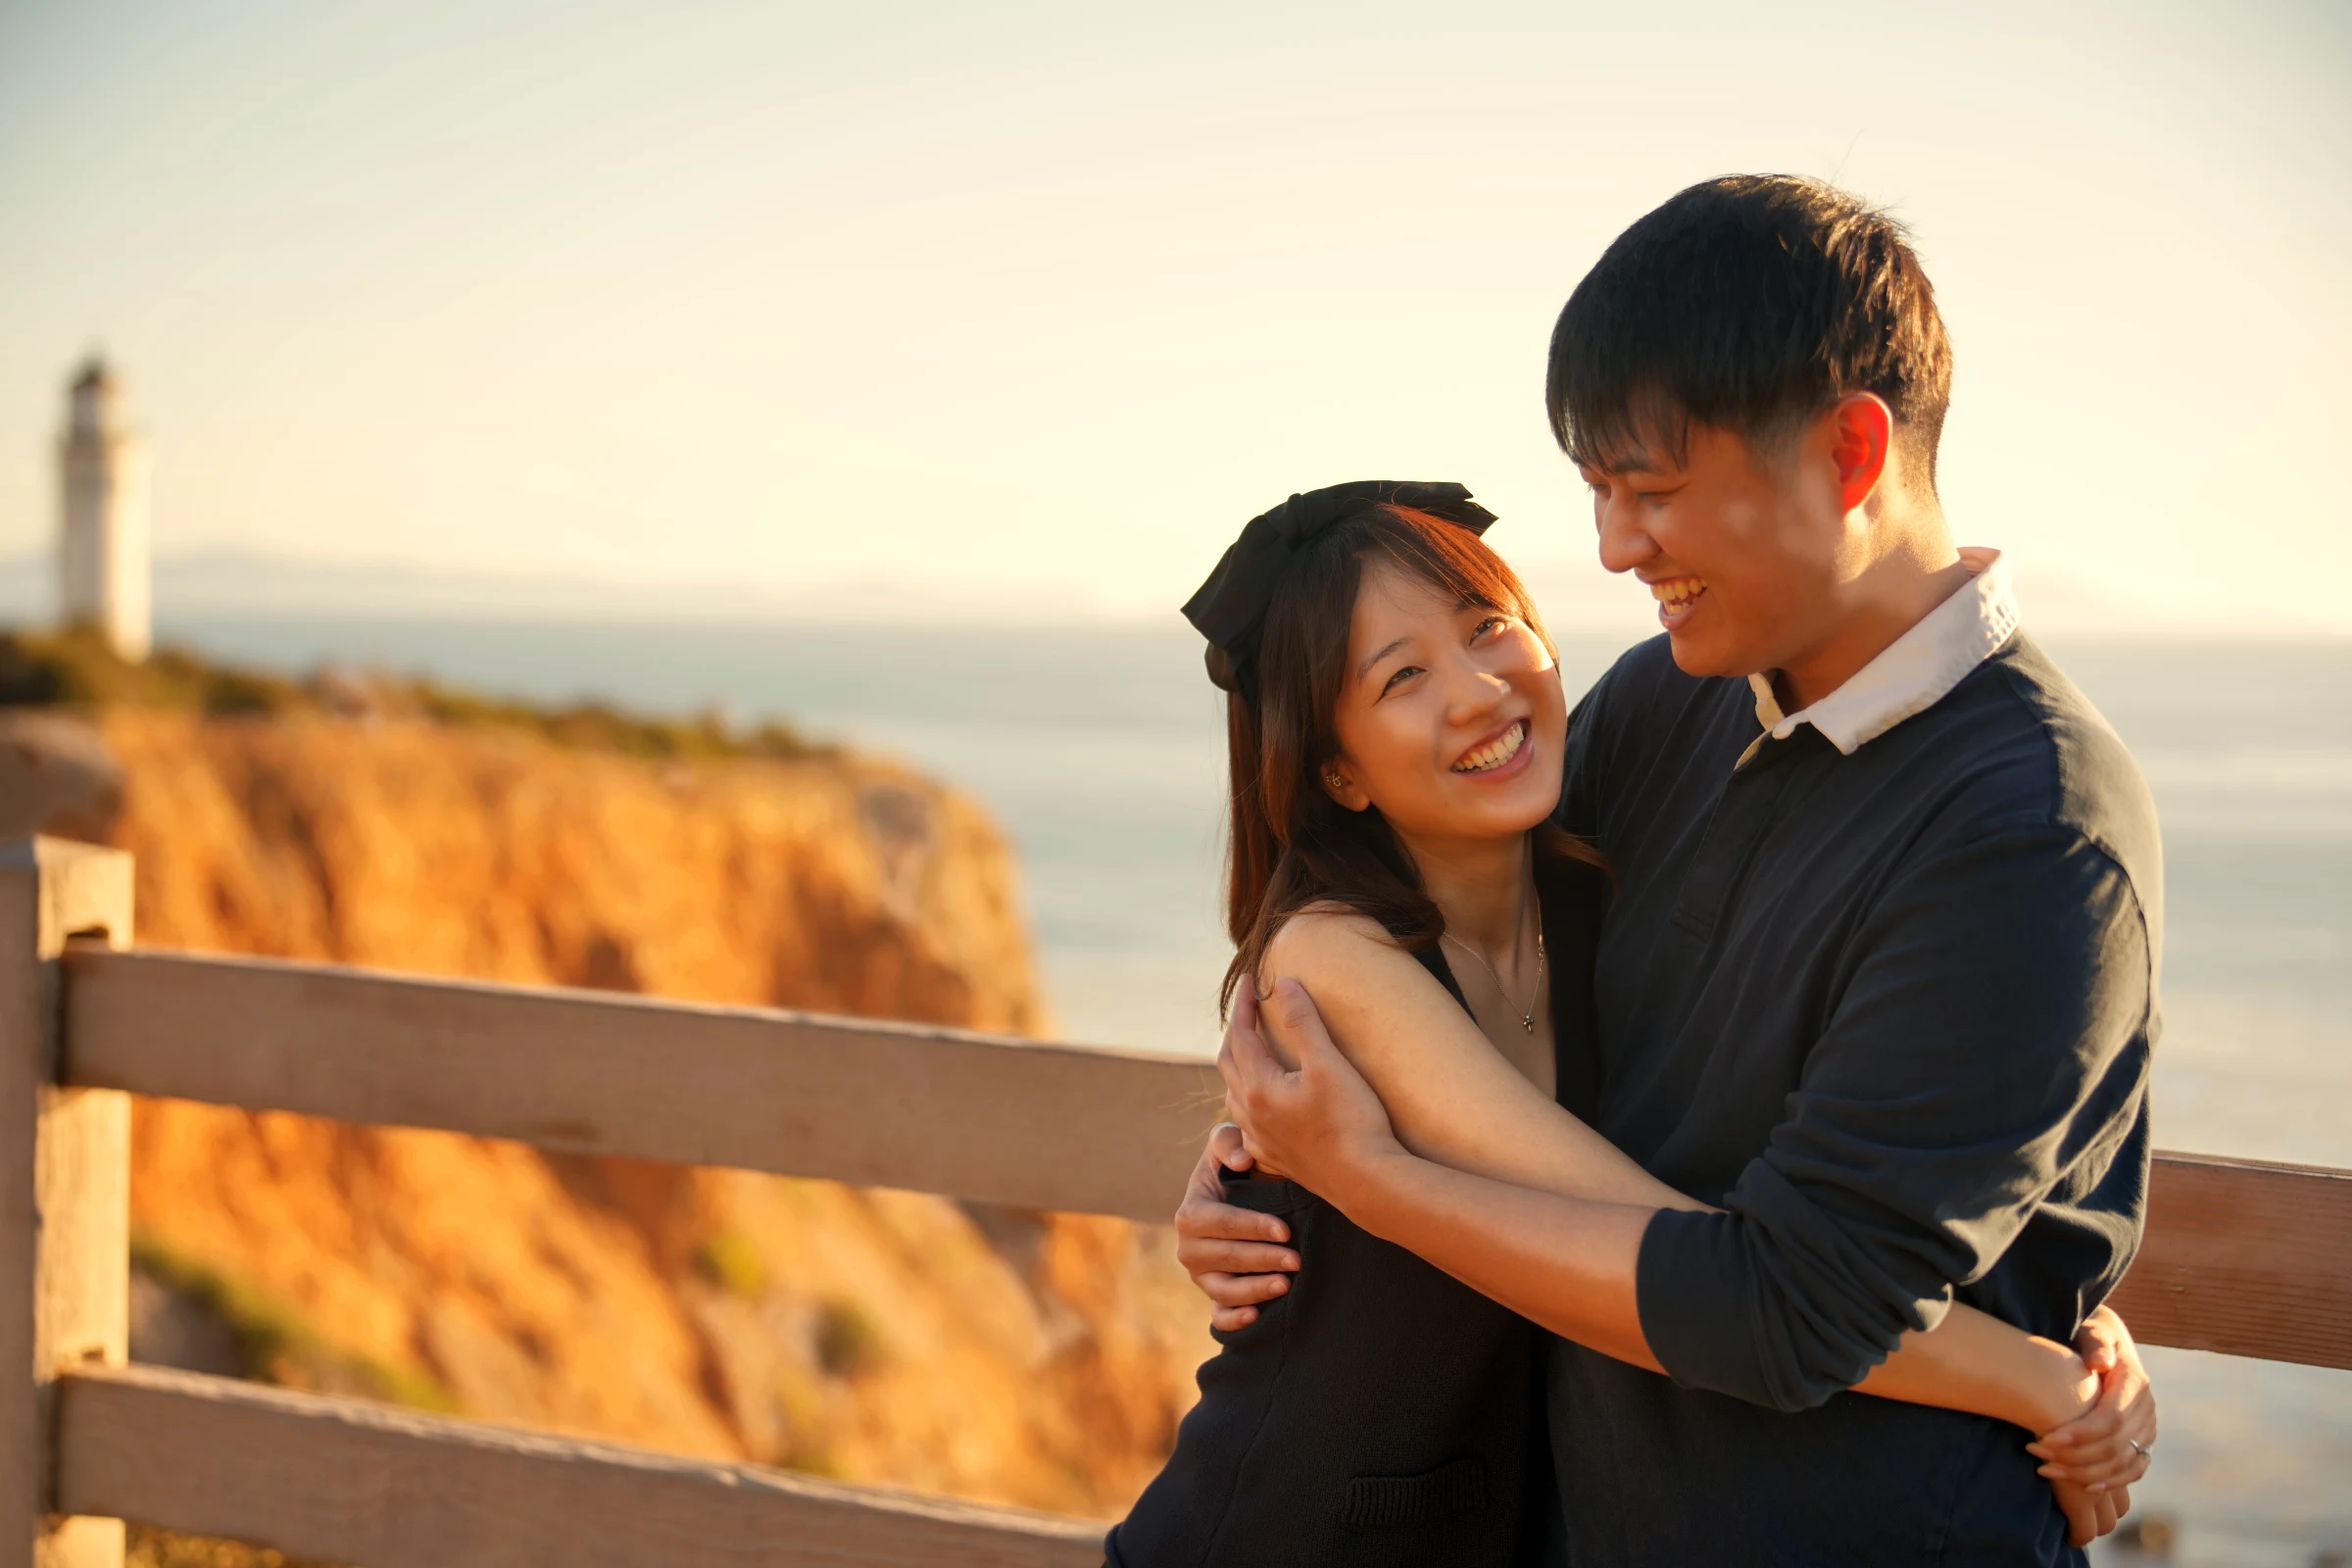
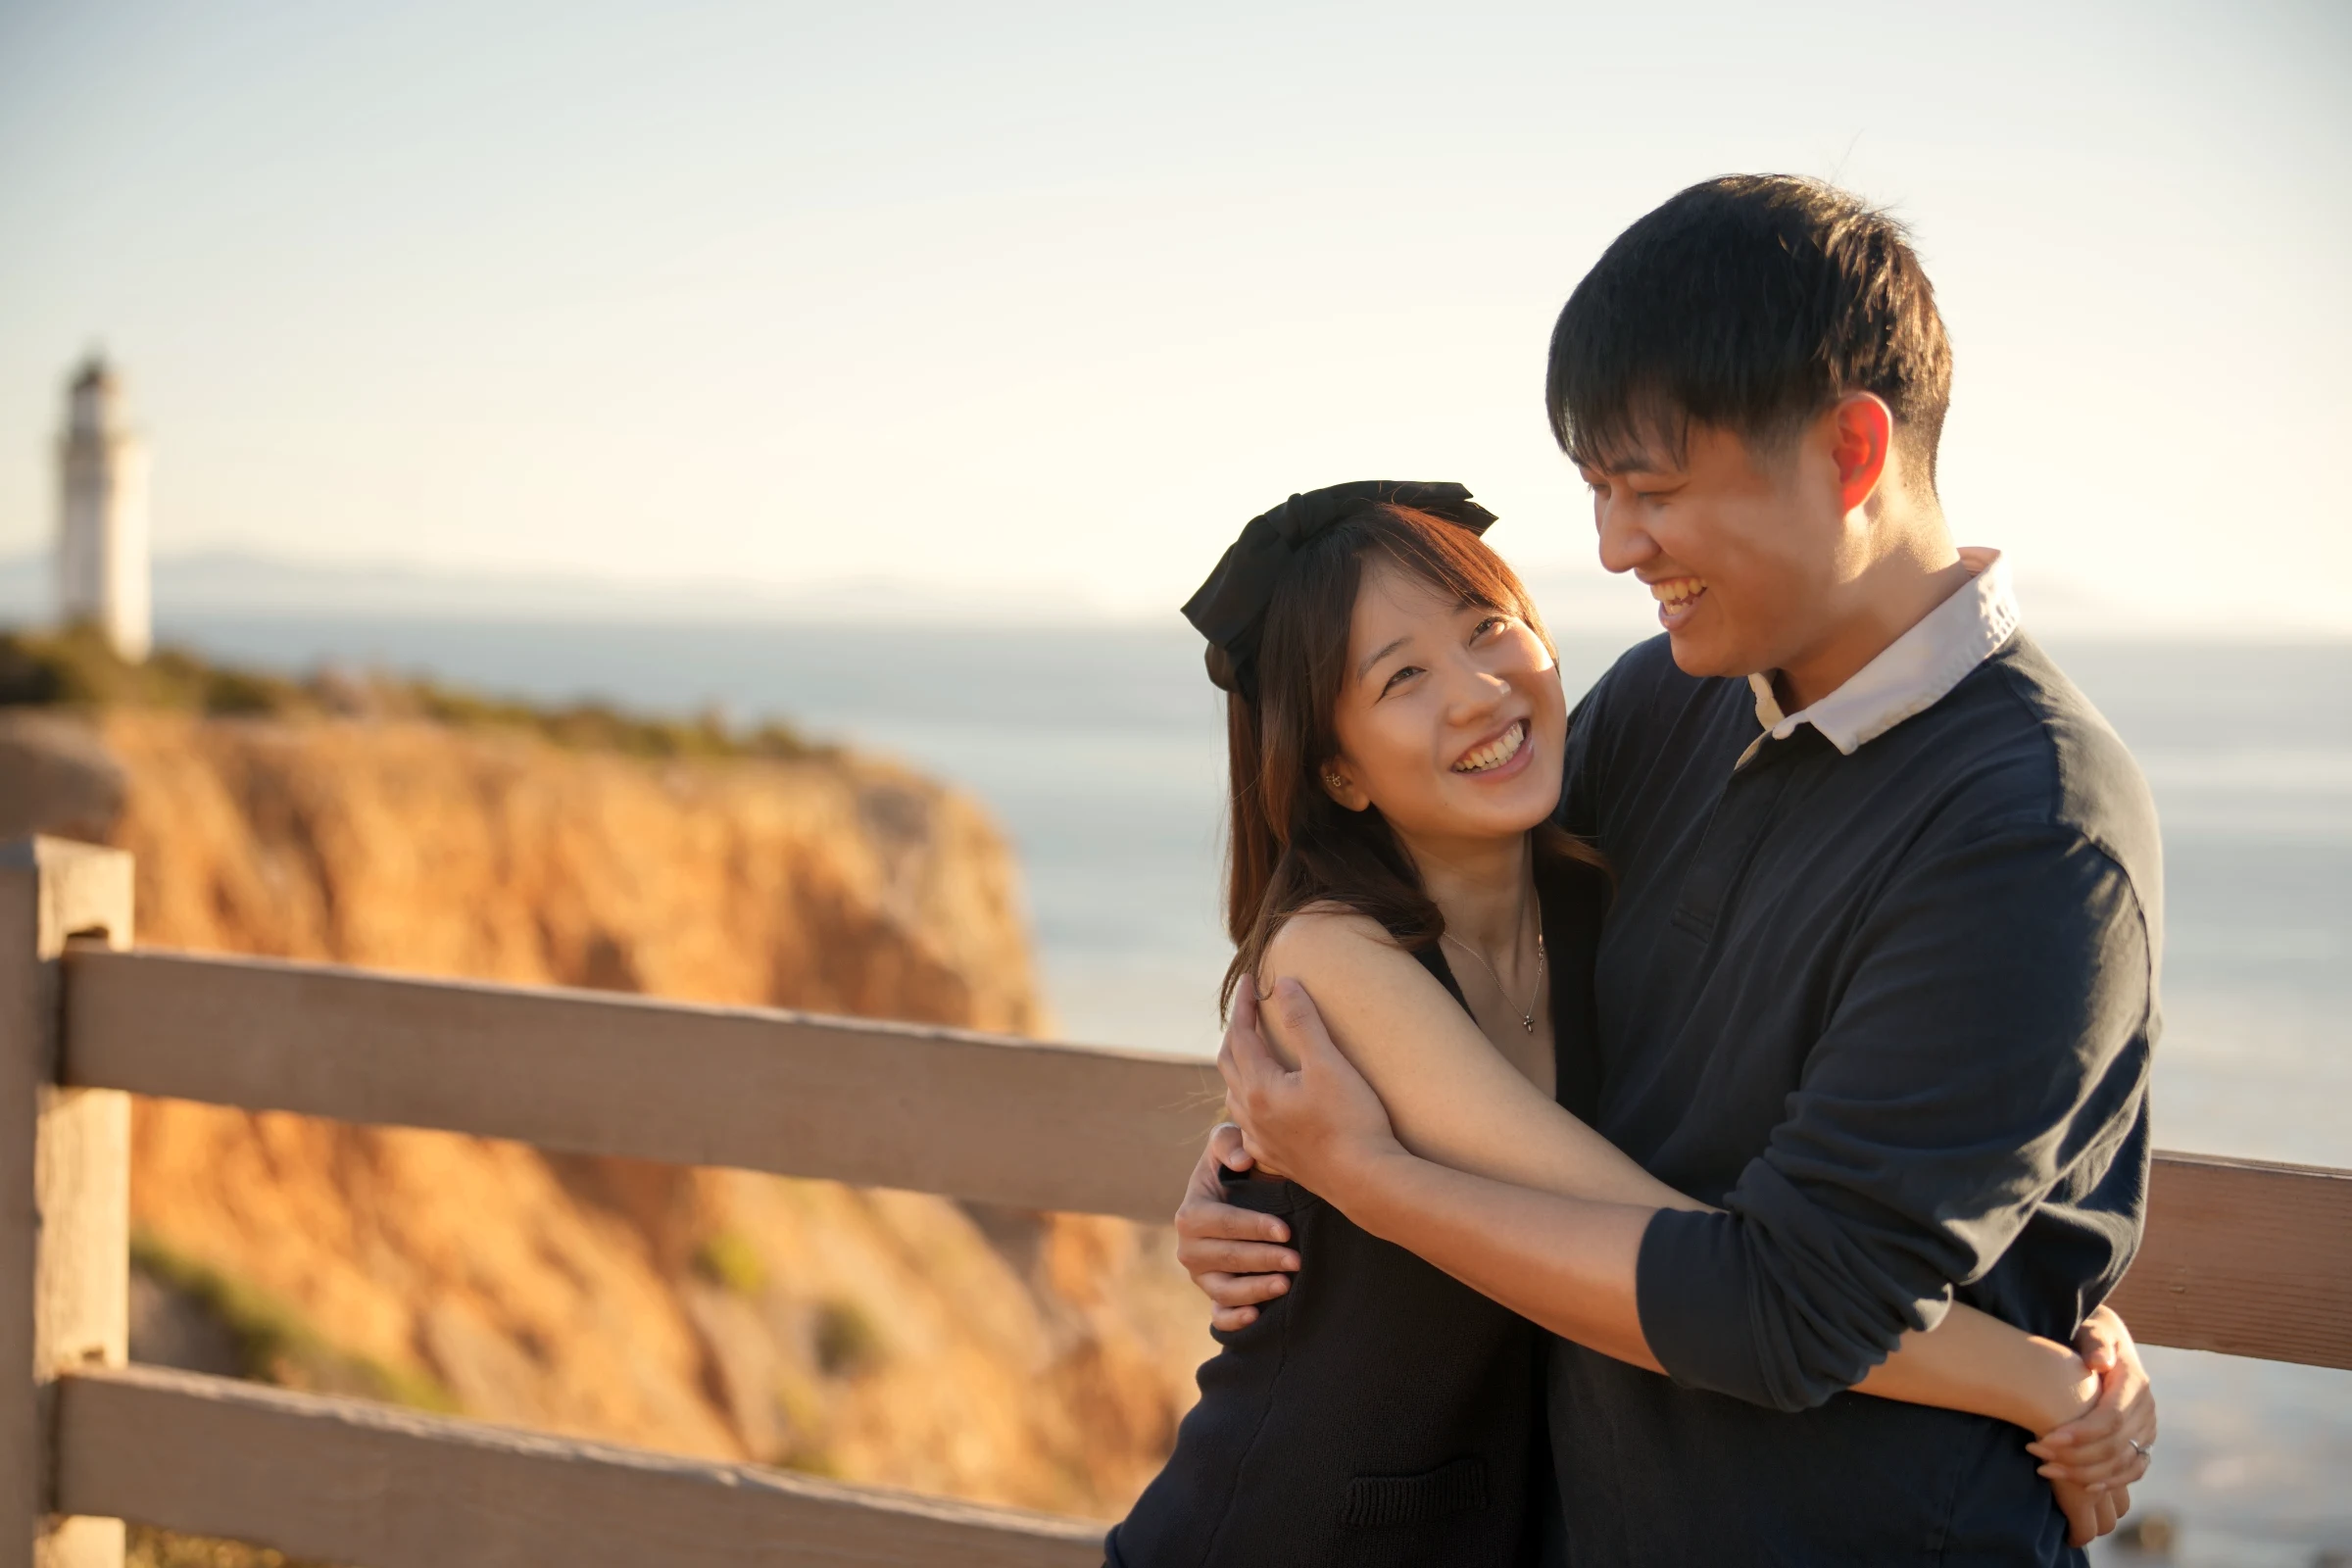
Publish 6c37694

diff --git a/index.html b/index.html
@@ -22,7 +22,7 @@
   <link rel="preconnect" href="https://fonts.googleapis.com">
   <link rel="preconnect" href="https://fonts.gstatic.com" crossorigin>
   <link href="https://fonts.googleapis.com/css2?family=EB+Garamond:ital,wght@0,400;0,500;0,600;1,400;1,500&family=Pinyon+Script&display=swap" rel="stylesheet">
-  <link rel="stylesheet" href="assets/site.css?v=20261110-dusk">
+  <link rel="stylesheet" href="assets/site.css?v=20261110-hero">
   <script>document.documentElement.classList.add("js")</script>
 </head>
 <body>
@@ -110,7 +110,7 @@
     <section id="home" class="page" data-page="home" aria-label="Home">
       <div class="hero">
         <figure class="hero-photo">
-          <img src="assets/images/photos/hero-laughing-lighthouse.webp?v=wb2" alt="Claire and Paul hugging and laughing by the fence, with the Point Vicente lighthouse behind them" class="zoomable" width="2400" height="1600" fetchpriority="high">
+          <img src="assets/images/photos/hero-laughing-lighthouse.webp?v=wb3" alt="Claire and Paul hugging and laughing by the fence, with the Point Vicente lighthouse behind them" class="zoomable" width="2400" height="1600" fetchpriority="high">
         </figure>
         <h1 class="names"><span>Claire</span> <span class="plus">+</span> <span>Paul</span></h1>
         <p class="date">Sunday, March 7, 2027</p>

diff --git a/assets/site.css b/assets/site.css
@@ -804,3 +804,8 @@ html { scrollbar-color: #A9BDCD transparent; scrollbar-width: thin; scroll-behav
   .js .block h2.is-seen::after, .dusk-sky .stars span, .foot-bears.is-waving, #rsvp-done:not([hidden]) .confirm-bears, .paw { animation: none; }
   .gallery img { transition: none; }
 }
+
+/* Show the whole hero photo, never cropped: size the frame from the viewport height instead */
+.hero-photo { max-width: min(60rem, calc(62vh * 1.5)); }
+.hero-photo img { max-height: none; object-fit: contain; }
+@media (max-width: 700px) { .hero-photo { max-width: 100%; } .hero-photo img { max-height: none; } }
